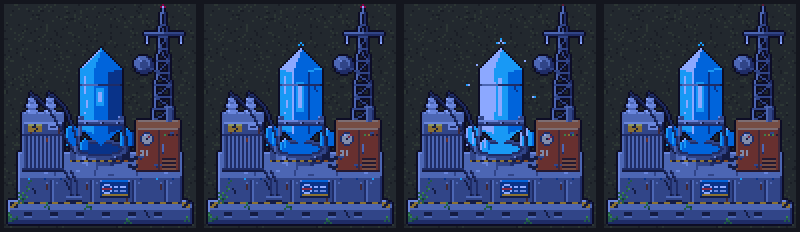
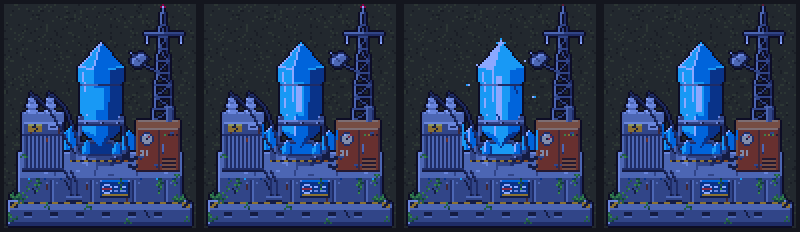
Art: environment props and tiles

diff --git a/pixel-art/relay_core/build.py b/pixel-art/relay_core/build.py
@@ -23,10 +23,10 @@ CAB = ["#262b44", "#3a4466"]
 # ------------------------------------------------------------------ plinth
 def plinth(c, p):
     # lower step
-    c.box(2, 93, 98, 4, 109, CONC_TOP[1], CONC_FRONT[2], lit=CONC_TOP[2], dark=CONC_FRONT[1], edge=CONC_FRONT[3])
+    c.box(2, 93, 98, 4, 110, CONC_TOP[1], CONC_FRONT[2], lit=CONC_TOP[2], dark=CONC_FRONT[1], edge=CONC_FRONT[3])
     c.hline(3, 92, 98, CONC_TOP[2])
-    c.hline(2, 93, 109, CONC_FRONT[1])
-    c.hline(3, 92, 108, CONC_FRONT[1])
+    c.hline(2, 93, 110, CONC_FRONT[1])
+    c.hline(3, 92, 109, CONC_FRONT[1])
     # upper block
     c.box(7, 88, 74, 12, 99, CONC_TOP[1], CONC_FRONT[2], lit=CONC_TOP[2], dark=CONC_FRONT[1], edge=CONC_FRONT[3])
     c.hline(8, 87, 74, CONC_TOP[2])
@@ -98,6 +98,18 @@ def moss(c):
     c.pts(pts2, MOSS[2])
     c.pts([(3, 106), (2, 105), (8, 96), (21, 99), (41, 100), (61, 107), (91, 106)], MOSS[3])
     c.pts([(4, 108), (6, 107), (9, 97), (22, 102), (62, 109), (43, 101)], MOSS[1])
+    # draping vines over the upper block's front edge
+    for (x, ln) in ((16, 6), (17, 3), (58, 5), (77, 7), (78, 4), (85, 3)):
+        for i in range(ln):
+            c.px(x + (1 if i % 3 == 2 else 0), 87 + i, MOSS[2] if i % 2 else MOSS[1])
+        c.px(x, 87 + ln, MOSS[3])
+        c.px(x - 1, 87 + ln // 2, MOSS[3])
+    # fern clumps on the lower step corners
+    c.pattern(84, 95, ["..g..g.", ".lg.gl.", "gglglgg", ".ddgdd."], {"g": MOSS[2], "l": MOSS[3], "d": MOSS[1]})
+    c.pattern(3, 94, [".g..g..", "lg.gl..", "glglgg.", ".dgdd.."], {"g": MOSS[2], "l": MOSS[3], "d": MOSS[1]})
+    # moss patches on the top face
+    c.pts([(9, 75), (10, 75), (11, 76), (8, 76), (86, 86), (85, 85), (87, 85)], MOSS[2])
+    c.pts([(10, 76), (86, 85)], MOSS[3])
     # vine tendril climbing the plinth front
     vine = [(9, 99), (10, 97), (10, 95), (11, 93), (11, 91), (12, 89), (13, 88)]
     for x, y in vine:
@@ -206,14 +218,20 @@ def mast(c, p, k):
     for x in (71, 88):
         c.vline(x, ya + 2, ya + 4, "#c0cbdc")
         c.px(x, ya + 5, WHITE)
-    # dish pointing up-left
-    dx, dy = 70, 30
-    c.ell(dx, dy, 5, 4, STEEL[1])
-    c.ell(dx - 1, dy - 1, 4, 3, STEEL[3])
-    c.ell(dx, dy, 2, 2, STEEL[2])
-    c.px(dx - 2, dy - 2, STEEL[4])
-    c.line(dx, dy, 76, dy + 3, STEEL[2])
-    c.px(dx - 3, dy - 3, STEEL[4])
+    # parabolic dish facing up-left, with feed arm and horn
+    c.pattern(63, 24, [
+        "....aaa....",
+        "..aabbba...",
+        ".abbbccca..",
+        "abbcccccdd.",
+        "abcccccdd..",
+        "abccccdd...",
+        ".acccdd....",
+        "..dddd.....",
+    ], {"a": STEEL[1], "b": STEEL[4], "c": STEEL[3], "d": STEEL[0]})
+    c.line(70, 30, 76, 33, STEEL[2])       # mount to the mast
+    c.line(67, 28, 64, 25, STEEL[2])       # feed arm
+    c.px(63, 24, STEEL[4])
     # top spike + aviation light
     c.vline(79, 1, top, STEEL[3])
 
@@ -241,51 +259,56 @@ def cradle(c, p, k):
 
 def crystal(c, p, k):
     """Big hexagonal cyan crystal. k = pulse frame (0 dim, 1 mid, 2 bright, 3 mid)."""
-    top, sh, sb, bot = 22, 32, 62, 70
-    xl, xm0, xm1, xr = 38, 44, 52, 58
+    C0, C1, C2, C3 = CYAN
     level = [0, 1, 2, 1][k]
-    L = [  # (left facet, centre, right, edge-light, core)
-        (CYAN[2], CYAN[1], CYAN[0], CYAN[2], CYAN[2]),
-        (CYAN[2], CYAN[1], CYAN[1], CYAN[3], CYAN[3]),
-        (CYAN[3], CYAN[2], CYAN[1], CYAN[3], CYAN[3]),
-    ][level]
-    # body
-    c.poly([(CX, top), (xr, sh), (xr, sb), (CX, bot), (xl, sb), (xl, sh)], L[1])
-    # left facet (lit)
-    c.poly([(xl, sh), (xm0, sh + 1), (xm0, sb + 2), (xl, sb)], L[0])
-    c.poly([(CX, top), (xm0, sh + 1), (xl, sh)], L[3] if level else CYAN[2])
-    # right facet (shade)
-    c.poly([(xm1, sh + 1), (xr, sh), (xr, sb), (xm1, sb + 2)], L[2])
-    c.poly([(CX, top), (xr, sh), (xm1, sh + 1)], L[1])
-    # facet edges
-    c.line(xm0, sh + 1, xm0, sb + 2, L[3] if level else CYAN[2])
-    c.line(xm1, sh + 1, xm1, sb + 2, CYAN[0] if level < 2 else CYAN[1])
+    top = 19
+    sh = 31                       # shoulder row
+    sb = 63                       # bottom of the faces
+    bot = 71
+    xl, xr = 37, 59               # shoulders
+    bl, br = 39, 57               # body tapers slightly to the base
+    m0, m1 = 44, 52               # facet edges at the shoulder
+    n0, n1 = 45, 51               # facet edges at the base
+    left, centre, right = [(C2, C1, C0), (C2, C1, C0), (C2, C2, C1)][level]
+    # silhouette in the centre colour
+    c.poly([(CX, top), (xr, sh), (br, sb), (CX, bot), (bl, sb), (xl, sh)], centre)
+    # left facet + left top facet (lit)
+    c.poly([(xl, sh), (m0, sh + 1), (n0, sb + 2), (bl, sb)], left)
+    c.poly([(CX, top), (m0, sh + 1), (xl, sh)], C3 if level == 2 else C2)
+    # right facet + right top facet (shade)
+    c.poly([(m1, sh + 1), (xr, sh), (br, sb), (n1, sb + 2)], right)
+    c.poly([(CX, top), (xr, sh), (m1, sh + 1)], C1 if level < 2 else C2)
+    # bottom facets (in the cradle's shadow)
+    c.poly([(bl, sb), (n0, sb + 2), (CX, bot)], C1)
+    c.poly([(n1, sb + 2), (br, sb), (CX, bot)], C0)
+    # facet edges: lit ridge lines
+    c.line(m0, sh + 1, n0, sb + 2, C3 if level else C2)
+    c.line(m1, sh + 1, n1, sb + 2, C1 if level < 2 else C2)
     c.line(xl, sh, CX, top, WHITE)
-    c.line(xm0, sh + 1, CX, top, L[3])
-    c.line(xl, sh, xm0, sh + 1, L[3])
-    c.line(xm1, sh + 1, xr, sh, CYAN[2] if level else CYAN[1])
-    # inner core glow (vertical streak in the centre facet), grows with the pulse
-    core_h = [8, 14, 22, 14][k]
-    cy0 = 46 - core_h // 2
-    c.rect(CX - 2, cy0, CX + 1, cy0 + core_h, CYAN[2])
-    c.rect(CX - 1, cy0 + 2, CX, cy0 + core_h - 2, WHITE if level else CYAN[3])
-    if level == 2:
-        c.rect(CX - 3, cy0 + 4, CX + 2, cy0 + core_h - 4, CYAN[2]) if False else None
-        c.vline(CX - 3, cy0 + 4, cy0 + core_h - 4, CYAN[3])
-    # left facet sparkle streaks
-    c.line(xl + 2, sh + 4, xl + 2, sh + 12, WHITE)
-    c.line(xl + 3, sh + 16, xl + 3, sh + 19, WHITE if level else CYAN[3])
-    c.px(xl + 2, sh + 22, WHITE)
-    # inclusion cracks
-    c.pts([(xm1 + 2, 40), (xm1 + 3, 41), (xm1 + 3, 42), (xm1 + 4, 43)], CYAN[0] if level < 2 else CYAN[0])
-    c.pts([(xm0 + 2, 55), (xm0 + 3, 56)], CYAN[1] if level < 2 else CYAN[2])
-    # smaller satellite crystals at the base
-    for (bx, by, h, wdt) in ((34, 70, 10, 3), (61, 70, 8, 3), (40, 72, 5, 2)):
-        c.poly([(bx, by - h), (bx + wdt, by - h + 2), (bx + wdt, by), (bx - wdt, by), (bx - wdt, by - h + 2)], L[1])
-        c.line(bx - wdt, by - h + 2, bx, by - h, L[3])
-        c.vline(bx - wdt, by - h + 2, by, L[0])
-        c.vline(bx + wdt, by - h + 2, by, L[2])
-        c.vline(bx, by - h + 1, by - 1, L[0] if level else CYAN[1])
+    c.line(m0, sh + 1, CX, top, C3)
+    c.line(xl, sh, m0, sh + 1, C3)
+    c.line(m1, sh + 1, xr, sh, C2)
+    # inner core glow in the centre facet: grows with the pulse
+    core_h = [10, 16, 26, 16][k]
+    cy0 = 47 - core_h // 2
+    c.rect(CX - 3, cy0, CX + 1, cy0 + core_h, C2)
+    c.rect(CX - 2, cy0 + 2, CX, cy0 + core_h - 2, C3 if level else C2)
+    if level >= 1:
+        c.rect(CX - 1, cy0 + 4, CX - 1, cy0 + core_h - 4, WHITE)
+    # sparkle streaks on the lit facet
+    c.line(xl + 2, sh + 3, xl + 3, sh + 12, C3)
+    c.line(xl + 3, sh + 16, xl + 3, sh + 20, C3 if level else C2)
+    c.px(xl + 4, sh + 24, C3)
+    # inclusion cracks (darker fractures)
+    c.pts([(m1 + 2, 40), (m1 + 3, 41), (m1 + 3, 42), (m1 + 4, 43), (m1 + 4, 44)], C0)
+    c.pts([(m0 + 2, 55), (m0 + 3, 56), (m0 + 3, 57)], C1 if level < 2 else C0)
+    # satellite crystals at the base
+    for (bx, by, h, wdt) in ((33, 72, 11, 3), (62, 72, 9, 3), (41, 74, 6, 2), (56, 74, 5, 2)):
+        c.poly([(bx, by - h), (bx + wdt, by - h + 3), (bx + wdt, by), (bx - wdt, by), (bx - wdt, by - h + 3)], C1)
+        c.line(bx - wdt, by - h + 3, bx, by - h, C3 if level else C2)
+        c.vline(bx - wdt, by - h + 3, by, C2)
+        c.vline(bx + wdt, by - h + 3, by, C0)
+        c.vline(bx - 1, by - h + 2, by - 1, C2 if level < 2 else C3)
 
 
 def clamps(c, p, k):
@@ -351,6 +374,10 @@ def frame(k):
     clamps(c, p, k)
     cables(c, p, k)
     moss(c)
+    # cyan rim light on surfaces facing the crystal (stronger at the peak)
+    if k in (1, 2, 3):
+        c.vline(29, 60, 66 if k != 2 else 70, CYAN[1] if k != 2 else CYAN[2])
+        c.vline(66, 63, 67 if k != 2 else 72, CYAN[1] if k != 2 else CYAN[2])
     c.outline()
     # emissive fx
     c.fx()

diff --git a/pixel-art/spitter/build.py b/pixel-art/spitter/build.py
@@ -58,7 +58,10 @@ def bulb(c, cx, cy, rx, ry, mouth=1, glow=0, veins_lit=False):
     # flesh
     c.ellipse(x0, y0, x1, y1, "p")
     c.ellipse(x0, y0 - 1, x1 - 1, y1 - 2, "P", only="opaque")
-    c.ellipse(x0 + 2, y0, x1 - 6, y1 - 7, "k", only="opaque")
+    c.ellipse(x0 + 2, y0, x1 - 8, y1 - 8, "k", only="opaque")
+    # mottled spots like a pitcher plant
+    for (sx, sy) in [(-4, -1), (-6, 1), (-3, 3), (-5, 4), (-1, 4), (1, -4), (-2, -5)]:
+        c.px(cx + sx, cy + sy, "p", only="opaque")
     c.px(x0 + 4, y0 + 2, "S", only="opaque")
     c.px(x0 + 5, y0 + 2, "S", only="opaque")
     # veins
@@ -85,9 +88,10 @@ def bulb(c, cx, cy, rx, ry, mouth=1, glow=0, veins_lit=False):
     else:
         c.line(hx + 1, hy, ex - 1, hy, "R" if glow == 0 else "e")
     # lips (lit upper lip) + fangs
-    c.line(hx, hy - 1, ex, hy - a - 2, "P")
-    c.line(hx + 1, hy - 2, ex, hy - a - 3, "k", only="opaque")
-    c.line(hx, hy + 1, ex, hy + a + 2, "p")
+    c.line(hx, hy - 1, ex + 1, hy - a - 2, "P")
+    c.line(hx + 1, hy - 2, ex + 1, hy - a - 3, "k")
+    c.line(hx, hy + 1, ex + 1, hy + a + 2, "p")
+    c.line(hx + 1, hy + 2, ex, hy + a + 3, "P")
     for k in range(hx + 2, ex + 1, 2):
         t = (k - hx) / (ex - hx)
         uy = round(hy - (a + 1) * t)
